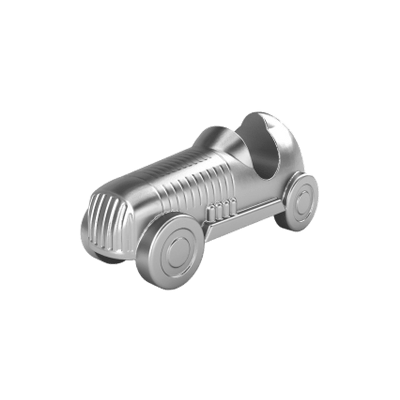
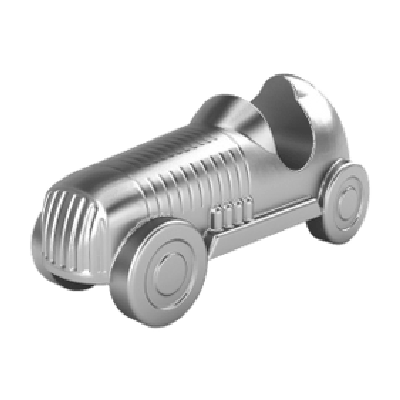
fixed player sprite sizes and added the other 4 pieces

Changed region(s): [[0.06, 0.18, 0.93, 0.84]]

diff --git a/player.py b/player.py
@@ -20,7 +20,7 @@ class Player():
         self.sprite_list = arcade.SpriteList()
         
         self.scale = scale
-        scaling = (scale/2)/200
+        scaling = (scale/2)/400
         png_name = "assets/" + PIECE_LIST[self.piece] + ".png"
         player_sprite = arcade.Sprite(png_name, scaling)
         player_sprite.center_x = 0
